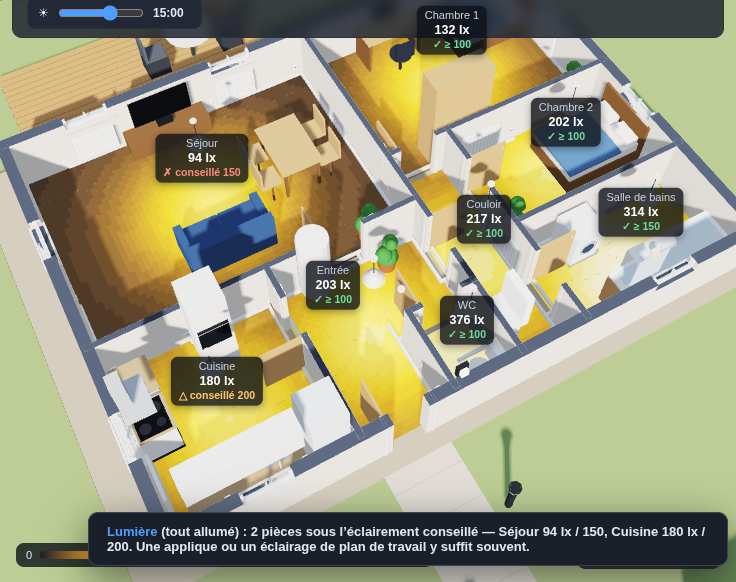
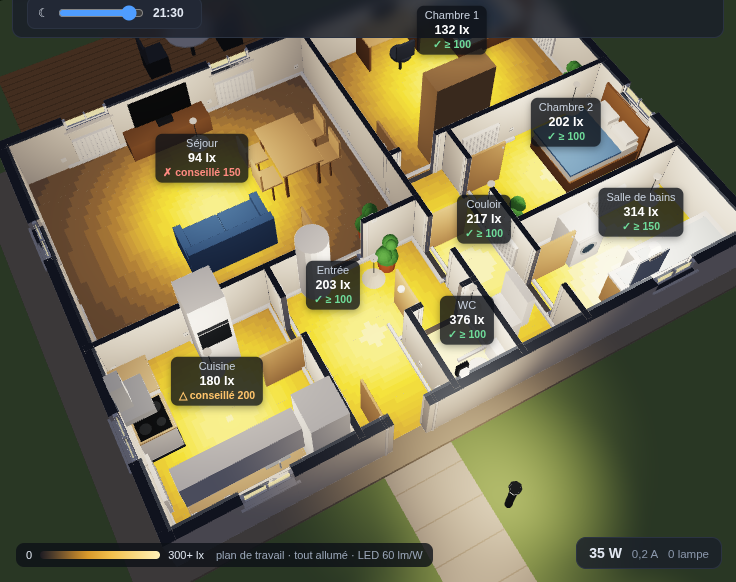
Vue Lumière : de nuit, toutes les lampes allumées comme sur la carte
La vue passe à 21 h 30 (sauf pendant la journée type) et reprend l'heure
d'avant en sortant ; plafonniers et appliques brillent en 3D.

Claude-Session: https://claude.ai/code/session_012vXqKX4kicWuKVAN5PtXFm

diff --git a/js/house-ui.js b/js/house-ui.js
@@ -1174,6 +1174,12 @@ function initHouseUI(app) {
     v3.lux = !v3.lux;
     if (v3.lux && v3.energy) { v3.energy = false; setChip('v3-energy', false); } // une seule teinte de sol à la fois
     setChip('v3-lux', v3.lux);
+    // la nuit, pour voir les lampes allumées comme sur la carte (l'heure revient ensuite)
+    if (!day.running && viz && viz.webgl) {
+      const tIn = $('v3-time');
+      if (v3.lux && v3.time > 7 && v3.time < 20) { v3.luxTime = v3.time; tIn.value = 21.5; tIn.dispatchEvent(new Event('input')); }
+      else if (!v3.lux && v3.luxTime !== undefined) { tIn.value = v3.luxTime; tIn.dispatchEvent(new Event('input')); v3.luxTime = undefined; }
+    }
     build3D(false);
     if (v3.lux) luxToast();
   });

diff --git a/js/viz3d.js b/js/viz3d.js
@@ -1215,7 +1215,7 @@ function _buildHouse(viz, components, walls, conduits, symbols, opts, b) {
   // États des appareils (lampes allumées, appareils en marche)
   for (const c of components) {
     const d = snap && snap.devices[c.id];
-    c.__lit = !!(snap && snap.lit && snap.lit.has(c.id));
+    c.__lit = !!(snap && snap.lit && snap.lit.has(c.id)) || !!(opts.lux && (c.type === 'dcl' || c.type === 'wall_light')); // vue Lumière : tout allumé
     c.__on = !!(d && d.on);
     if (!d && c.on && snap) {
       // appareils branchés sur une prise : en marche si la prise est alimentée

diff --git a/README.md b/README.md
@@ -276,7 +276,8 @@ Le bouton **3D** ouvre la maison (ou la carte électronique) dans un moteur **We
 - **Énergie** : le sol de chaque pièce se teinte selon la puissance qu'elle consomme
   (échelle 0 → 4 kW), avec une étiquette en watts au-dessus de chaque pièce ;
 - **Lumière** (`L`) : carte d'**éclairement** au sol, en lux sur le plan de travail
-  (0,85 m), tous les points lumineux allumés. Luminaires LED à 60 lm/W ; plafonnier
+  (0,85 m), tous les points lumineux allumés — la scène passe à 21 h 30 pour les voir
+  briller, puis l'heure revient. Luminaires LED à 60 lm/W ; plafonnier
   lambertien (E = Φ·h²/π·d⁴), applique en demi-espace (E = Φ·h/2π·d³), la lumière
   reste dans sa pièce et les parois en renvoient une part (ρ = 0,5). Chaque pièce
   affiche son éclairement moyen face à l'objectif (100 lx en chambre, 150 au séjour et
